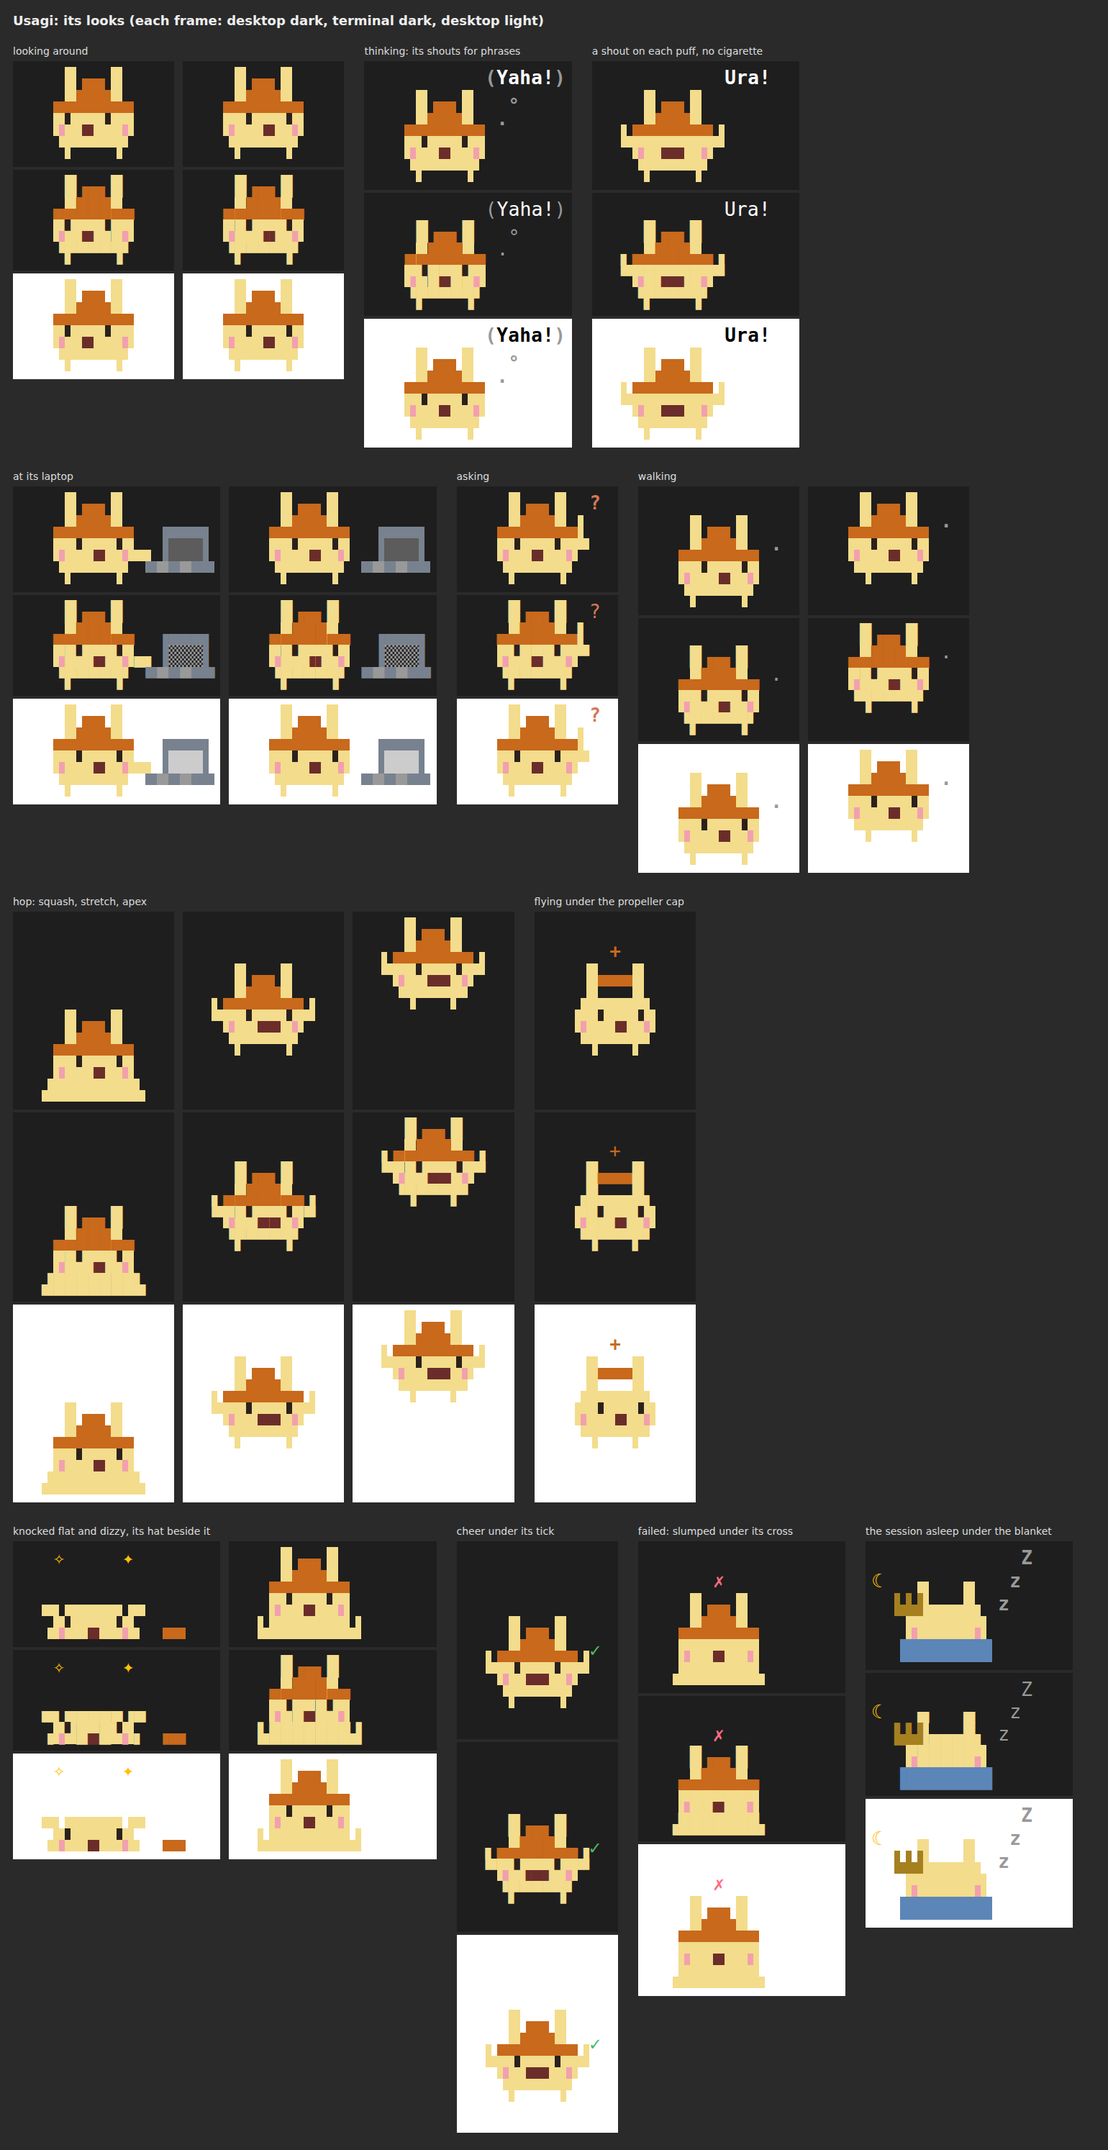
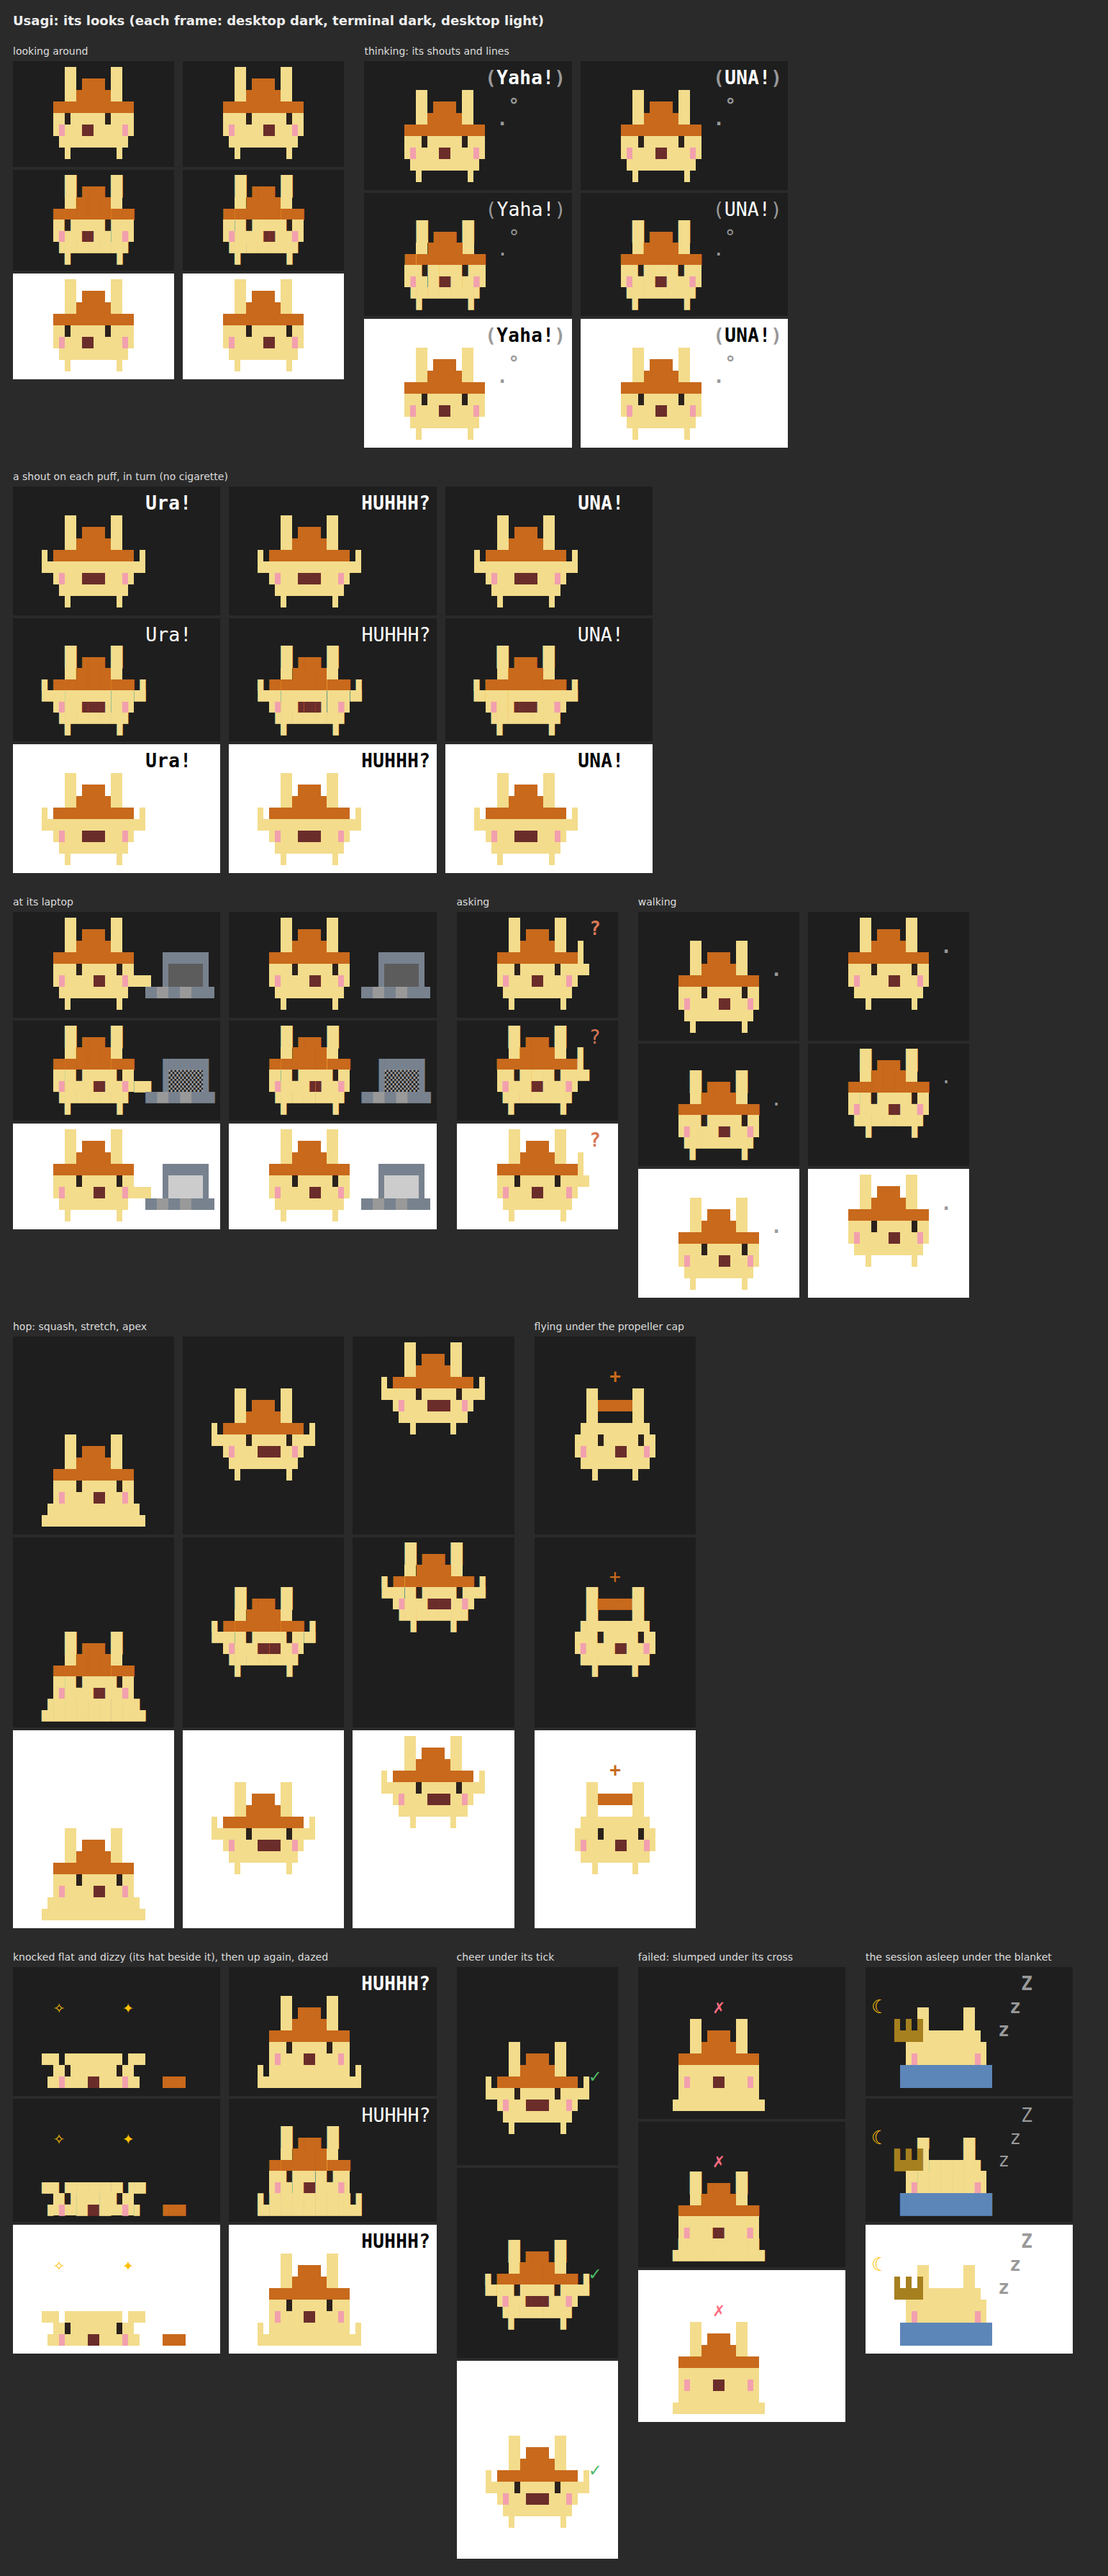
Mascots: Usagi's lines, HUHHH? and UNA!
- Its thoughts take its lines too: HUHHH?, UNA!, HUHHH?! and UNA UNA
  join Ura!, Yaha! and Puruya.
- On the puff bit it shouts in turn, a puff each: Ura!, HUHHH?, UNA!,
  then takes a breath.
- Getting up after a fall, crouched and dazed, it says HUHHH?.
- Every line over its head comes a row lower, beside its ears, when
  no sky row is free.

diff --git a/mod-hud/hooks/usagi-glyphs.ts b/mod-hud/hooks/usagi-glyphs.ts
@@ -12,6 +12,7 @@ import {
   CAP,
   CHEEKS,
   CROSS as USAGI_CROSS,
+  DAZED,
   DROOP_TOP,
   EARS,
   EYES,
@@ -33,7 +34,7 @@ import {
   QUILT_PALETTE,
   ROLE_HATS,
   SEAT,
-  SHOUT,
+  SHOUTS,
   SIDE_CROWN,
   TOP,
   USAGI,
@@ -58,7 +59,7 @@ export const dressOfAgent = (agent: MascotAgent): Dress => ({ ...(agent.role ===
 export const dressOfMain = (main: MascotMain): Dress => ({ crown: true, energy: main.energy ?? 0 })
 
 /** Clawd's overlays drawn Usagi's way: its thought frames with its shouts in the bubble, the cross over its head. */
-const SHOUTS: ReadonlyMap<Overlay, Overlay> = new Map([
+const SWAPS: ReadonlyMap<Overlay, Overlay> = new Map([
   ...THOUGHT_FRAMES.flatMap((frames, phrase) => frames.map((frame, step): [Overlay, Overlay] => [frame, USAGI_THOUGHT_FRAMES[phrase]?.[step] ?? frame])),
   ...OVERLAYS.cross.map((one): [Overlay, Overlay] => [one, USAGI_CROSS]),
 ])
@@ -68,15 +69,20 @@ const CROSS: ReadonlySet<Overlay> = new Set(OVERLAYS.cross)
 
 const blankRow = (width: number): string => '.'.repeat(width)
 
-/** Its overlays as Usagi's: its shouts for Clawd's thoughts, its cross; no cigarette, a shout (`Ura!`) on each puff. */
-const besideOf = (look: Look, shouting: boolean): Overlay[] => [
-  ...look.overlays.filter(one => !CIGARETTE.has(one) && !SMOKE.has(one)).map(one => SHOUTS.get(one) ?? one),
-  ...(shouting ? [SHOUT] : []),
+/** Its overlays as Usagi's: its shouts for Clawd's thoughts, its cross; no cigarette, a shout on each puff; dazed, getting up after a fall. */
+const besideOf = (look: Look, shout: Overlay | undefined): Overlay[] => [
+  ...look.overlays.filter(one => !CIGARETTE.has(one) && !SMOKE.has(one)).map(one => SWAPS.get(one) ?? one),
+  ...(shout === undefined ? [] : [shout]),
+  ...(look.pose === 'crouch' ? [DAZED] : []),
 ]
 
-/** On a puff of the cigarette's idle bit: Usagi shouts instead, hands up, mouth wide. */
-const shoutingOf = (look: Look): boolean =>
-  look.overlays.some(one => CIGARETTE.has(one)) && look.overlays.some(one => SMOKE.has(one) && one.art.some(row => row.trim() !== ''))
+/** On a puff of the cigarette's idle bit, that puff's shout (`Ura!`, `HUHHH?`, `UNA!`): Usagi throws its hands up instead of smoking. */
+const shoutOf = (look: Look): Overlay | undefined => {
+  if (!look.overlays.some(one => CIGARETTE.has(one))) return undefined
+  const puff = look.overlays.find(one => SMOKE.has(one) && one.art.some(row => row.trim() !== ''))
+
+  return puff === undefined ? undefined : SHOUTS[Math.floor(OVERLAYS.smoke.indexOf(puff) / 2)]
+}
 
 /** Its ears for a look: through its hat's brim they stand; else lowered squatting or asleep, trailing a walk, drooping slumped (bare). */
 const earsOf = (look: Look, hatted: boolean, crowned: boolean): Ears => {
@@ -113,7 +119,7 @@ const faceOf = (look: Look, shouting: boolean): [string, string] => {
 
 /** The figure's quarters for a look, its hat or crown on, with the palette they are drawn in. */
 export const usagiFigure = (look: Look, dress: Dress): { bitmap: string[]; palette: Palette } => {
-  const shouting = shoutingOf(look)
+  const shouting = shoutOf(look) !== undefined
   const capped = look.cap !== undefined
   const hat = look.hatOff === true || capped ? undefined : dress.hat === undefined ? undefined : HATS[dress.hat]
   const ears = EARS[earsOf(look, hat !== undefined, dress.crown === true)]
@@ -200,7 +206,7 @@ export const drawUsagi = (look: Look, dress: Dress, above = 0): Grid => {
     if (look.cap !== undefined) hatAt(-1, BODY_X + 4 + nudge, at(FLYING_CAP.blades, look.cap), capTone(dress))
     hatAt(0, ENERGY_X.right + nudge, ENERGY_MARKS.right[dress.energy] ?? '', '', 'y')
   }
-  layBeside(look, put, USAGI.body, above, 0, besideOf(look, shoutingOf(look)))
+  layBeside(look, put, USAGI.body, above, 0, besideOf(look, shoutOf(look)))
 
   return grid
 }

diff --git a/mod-hud/hooks/mascot-sheet.ts b/mod-hud/hooks/mascot-sheet.ts
@@ -133,7 +133,7 @@ export const spriteSheet = (character: Character = 'clawd'): SheetEntry[] => {
     bit('idle · look around (8 frames, a 6 s slot loops it)', 'look', 8),
     bit('idle · stretch (8 frames, once a slot, then the rest frame)', 'stretch', 8),
     bit('idle · sit (16 frames, a blink on 12 and 13)', 'sit', 16),
-    bit(usagi ? 'idle · a shout (Ura!: on each of the puff bit\'s 4 puffs of 500 ms, hands up, mouth wide; shown every other frame)' : 'idle · a puff (4 puffs of 500 ms, shown every other frame)', 'puff', 4, 2),
+    bit(usagi ? 'idle · a shout (on each of the puff bit\'s puffs of 500 ms, hands up, mouth wide: Ura!, HUHHH?, UNA!, then a breath; shown every other frame)' : 'idle · a puff (4 puffs of 500 ms, shown every other frame)', 'puff', 4, 2),
     work('idle · asleep under the blanket, from 90 s (z, z z, z z Z, held; the quilt breathes every 4 frames)', 'thinking', 8, { idleMs: BLANKET_AFTER_MS }),
     work('idle · asleep, idle 10 minutes (the moon)', 'thinking', 8, { idleMs: LONG_IDLE_MS }),
     work('idle · asleep with no sky row free (the z z Z a row lower)', 'thinking', 8, { idleMs: BLANKET_AFTER_MS }, 0),
@@ -149,7 +149,7 @@ export const spriteSheet = (character: Character = 'clawd'): SheetEntry[] => {
     framesOf('agent · walking left', motions([{ kind: 'walk' }, { kind: 'walk' }, { kind: 'walk' }, { kind: 'walk' }], {}, 'left')),
     framesOf('agent · hop (6 frames, lifts 0 2 4 4 2 0: squash, stretch, apex, apex, air, squash)', motions([hop(0, 0, 'squash'), hop(1, 2, 'stretch'), hop(2, 4, 'apex'), hop(3, 4, 'apex'), hop(4, 2, 'air'), hop(5, 0, 'squash')])),
     framesOf('agent · flying under the propeller cap (climb two rows a second, cruise, come down, land with a bounce)', motions([fly(0, 1), fly(1, 1), fly(2, 2), fly(3, 2), fly(4, 3), fly(5, 3), fly(6, 2), fly(7, 1), { kind: 'land' }])),
-    framesOf('agent · knocked over (a stagger, flat on its back with its hat knocked off, dizzy ×8: eyes crossing and rolling apart under three blinking stars; a crouch, up at its laptop)',
+    framesOf(usagi ? 'agent · knocked over (a stagger, flat with its hat knocked off, dizzy ×8: eyes crossing and rolling apart under three blinking stars; a crouch, dazed: HUHHH?; up at its laptop)' : 'agent · knocked over (a stagger, flat on its back with its hat knocked off, dizzy ×8: eyes crossing and rolling apart under three blinking stars; a crouch, up at its laptop)',
       ticks(12).map(step => full(agent('typing'), { kind: 'work' }, step, { motion: { kind: 'fallen', step } }))),
     framesOf('main · knocked over (the crown knocked off beside it, back on as it gets up)', [1, 2, 3, 10, 11].map(step => session({ mood: 'watching' }, step, { motion: { kind: 'fallen', step } }))),
     framesOf('agent · arriving by the pipe: it drops out of the mouth (eyes wide, arms up, legs tucked), falling ever faster to its floor; then it turns to its desk', [

diff --git a/mod-hud/hooks/usagi-sprites.ts b/mod-hud/hooks/usagi-sprites.ts
@@ -203,13 +203,19 @@ export const MINI_SAT = ['..........', '..........', '...#..#...', '..######..',
 
 // --- what it says --------------------------------------------------------------------
 
-/** Usagi barely talks: its thoughts are its shouts, one per spell as Clawd's phrases are. */
-export const USAGI_THOUGHTS = ['Ura!', 'Yaha!', 'Puruya', 'Haa?', 'Fuun', 'Ura ura', 'Yahaa!', 'Puru…', 'Ha!', 'Uraa!', 'Fu fu', 'Yaha ha', 'Hm?', 'Puruu', 'Wa!'] as const
+/** Usagi barely talks: its thoughts are its shouts and its lines (`HUHHH?`, `UNA!`), one per spell as Clawd's phrases are. */
+export const USAGI_THOUGHTS = ['Ura!', 'Yaha!', 'HUHHH?', 'UNA!', 'Puruya', 'Haa?', 'Fuun', 'Yahaa!', 'Uraa!', 'HUHHH?!', 'UNA UNA', 'Yaha ha', 'Puruu', 'Ura ura', 'Puru…'] as const
 
 export const USAGI_THOUGHT_FRAMES: readonly (readonly Overlay[])[] = thoughtFrames(USAGI_THOUGHTS)
 
-/** Instead of the cigarette, a shout: hands up, mouth wide, its `Ura!` above; a row lower, beside its ears, with no sky row free. */
-export const SHOUT: Overlay = { art: placed([-1, 11, 'Ura!']), ink: 'f' }
+/** A line shouted over its head; a row lower, beside its ears, with no sky row free. */
+const shout = (line: string): Overlay => ({ art: placed([-1, 11, line]), ink: 'f' })
+
+/** Instead of the cigarette: on each of the puff bit's three puffs, hands up and mouth wide, a shout in turn. */
+export const SHOUTS: readonly Overlay[] = ['Ura!', 'HUHHH?', 'UNA!'].map(shout)
+
+/** Up again after a fall, crouched, dazed. */
+export const DAZED: Overlay = shout('HUHHH?')
 
 /**
  * Failed, slumped: the cross over its head (its head stays up, so in the sky
@@ -217,6 +223,9 @@ export const SHOUT: Overlay = { art: placed([-1, 11, 'Ura!']), ink: 'f' }
  * laid as the sky row's, then lowered).
  */
 export const CROSS: Overlay = { art: placed([-1, 6, '✗']), lowArt: placed([-1, 11, '✗']), ink: 'r' }
+
+/** What Usagi says or shows over its head: a row lower with no sky row free. */
+export const USAGI_LINES: readonly Overlay[] = [...SHOUTS, DAZED, CROSS]
 
 // --- quarters to cells ---------------------------------------------------------------
 

diff --git a/mod-hud/hooks/usagi.test.ts b/mod-hud/hooks/usagi.test.ts
@@ -174,6 +174,7 @@ describe('what it says', () => {
       said.add(phrase)
     }
     expect(said.size).toBeGreaterThan(1)
+    for (const line of ['HUHHH?', 'UNA!']) expect(USAGI_THOUGHTS as readonly string[]).toContain(line)
   })
 
   test('its cross and its shout over its head, or beside its ears with no sky row free', () => {
@@ -187,12 +188,17 @@ describe('what it says', () => {
     expect(rowText(drawUsagi(puff, dress, 0), SKY).indexOf('Ura!')).toBe(11)
   })
 
-  test('no cigarette: on each puff, hands up and mouth wide, it shouts Ura!', () => {
+  test('no cigarette: on each puff, hands up and mouth wide, it shouts in turn Ura!, HUHHH?, UNA!, then a breath', () => {
     const entry = spriteSheet('usagi').find(one => one.name.startsWith('idle · a shout'))
-    const frames = entry?.frames.map(frame => frame.join('\n')) ?? []
-    expect(frames.length).toBe(4)
-    expect(frames.filter(frame => frame.includes('Ura!')).length).toBe(3)
-    for (const frame of frames) expect(frame.includes('╼')).toBe(false)
+    const said = (entry?.frames ?? []).map(frame => ['Ura!', 'HUHHH?', 'UNA!'].filter(line => frame.join('\n').includes(line)))
+    expect(said).toEqual([['Ura!'], ['HUHHH?'], ['UNA!'], []])
+    for (const frame of entry?.frames ?? []) expect(frame.join('\n').includes('╼')).toBe(false)
+  })
+
+  test('getting up after a fall, dazed: HUHHH?', () => {
+    const entry = spriteSheet('usagi').find(one => one.name.startsWith('agent · knocked over'))
+    const dazed = (entry?.frames ?? []).map(frame => frame.join('\n').includes('HUHHH?'))
+    expect(dazed).toEqual([false, false, false, false, false, false, false, false, false, false, true, false])
   })
 })
 

diff --git a/mod-hud/hooks/mascot-glyphs.ts b/mod-hud/hooks/mascot-glyphs.ts
@@ -38,7 +38,7 @@ import {
 import type { HatSide, Ink, Overlay } from './mascot-sprites'
 import { sideOf } from './scene-model'
 import type { Cell, Energy, Grid, MascotAgent, MascotMain } from './scene-types'
-import { CROSS as USAGI_CROSS, SHOUT, USAGI_THOUGHT_FRAMES } from './usagi-sprites'
+import { USAGI_LINES, USAGI_THOUGHT_FRAMES } from './usagi-sprites'
 
 // One mascot drawn into cells from its look (hooks/mascot-poses.ts): the
 // figure from the body tables (hooks/mascot-sprites.ts) in its colour, its air
@@ -61,8 +61,8 @@ export const wearOfMain = (main: MascotMain): Wear => ({ hat: { ...CROWN, side: 
 /** One row up on its bouncing frames, where a row is free above it. */
 export const bobOf = (look: Look, sky: number): number => (look.bob === true && sky - look.lift >= 1 ? 1 : 0)
 
-/** A thought or sleep rising beside the head (Usagi's shouts and its cross too): a row lower without a sky row. */
-const RISING: ReadonlySet<Overlay> = new Set<Overlay>([...THOUGHT_FRAMES.flat(), ...USAGI_THOUGHT_FRAMES.flat(), ...OVERLAYS.zzz, SHOUT, USAGI_CROSS])
+/** A thought or sleep rising beside the head (Usagi's lines and its cross too): a row lower without a sky row. */
+const RISING: ReadonlySet<Overlay> = new Set<Overlay>([...THOUGHT_FRAMES.flat(), ...USAGI_THOUGHT_FRAMES.flat(), ...OVERLAYS.zzz, ...USAGI_LINES])
 
 /** Lays a cell of a mascot's grid at (row, column) of its box (row −1 the sky row); `own` for the figure's, which nothing laid later covers. */
 export type Put = (row: number, column: number, cell: Cell, own?: boolean) => void

diff --git a/README.md b/README.md
@@ -104,7 +104,7 @@ A card at the top of the pane, at most 72 cells wide, then the agent list, then 
 - Flights carry meaning: a web call sends a mascot into the sky, Explore agents scan the floor from above, a reading streak lifts off, finished agents fly out, and the session flies up on a compaction.
 - Collisions (`collisions` setting) knock mascots over, dizzy, before they get up and carry on.
 - Motion is `smooth` (20 fps, mouse grab and throw) or `classic` (4 fps, everywhere).
-- `character: usagi` swaps every mascot for Usagi (fan art): pale yellow, its role shown by its hat (worker a construction hat, Explore a fedora, reviewer a mortarboard, debugger a miner's helmet, Plan a top hat, frontend a beret), the session's by a small crown on the side of its head; it shouts `Ura!` and `Yaha!` where Clawd thinks out loud. See [the mascot docs](mod-hud/docs/mascots.md#usagi).
+- `character: usagi` swaps every mascot for Usagi (fan art): pale yellow, its role shown by its hat (worker a construction hat, Explore a fedora, reviewer a mortarboard, debugger a miner's helmet, Plan a top hat, frontend a beret), the session's by a small crown on the side of its head; it shouts `Ura!`, `Yaha!`, `HUHHH?` and `UNA!` where Clawd thinks out loud. See [the mascot docs](mod-hud/docs/mascots.md#usagi).
 
 ## Development
 

diff --git a/mod-hud/docs/mascots.md b/mod-hud/docs/mascots.md
@@ -365,12 +365,14 @@ its hat (or crown) lies on the floor beside it.
 - Its head never goes lower: sitting, crouched or squashed, it squats on a
   wide seat; knocked down it lies flat, ears out either side; asleep, the
   blanket covers its body up to its cheeks.
-- It barely talks: its thoughts are its shouts (`USAGI_THOUGHTS`: `Ura!`,
-  `Yaha!`, `Puruya`, `Haa?` and more), one a spell as Clawd's phrases are.
+- It barely talks: its thoughts are its shouts and its lines
+  (`USAGI_THOUGHTS`: `Ura!`, `Yaha!`, `HUHHH?`, `UNA!`, `Puruya`, `Haa?` and
+  more), one a spell as Clawd's phrases are.
 - No cigarette: on each puff of that idle bit it throws its hands up and
-  shouts `Ura!`.
+  shouts, in turn, `Ura!`, `HUHHH?`, `UNA!` (`SHOUTS`), then takes a breath.
+- Getting up after a fall, crouched, it is dazed: `HUHHH?` (`DAZED`).
 - Failed, its cross stands over its head in the sky row (its head stays
-  up); with no sky row free, the cross and its shouts come a row lower,
+  up); with no sky row free, the cross and its lines come a row lower,
   beside its ears.
 
 ![Usagi: its looks](usagi-poses.png)
